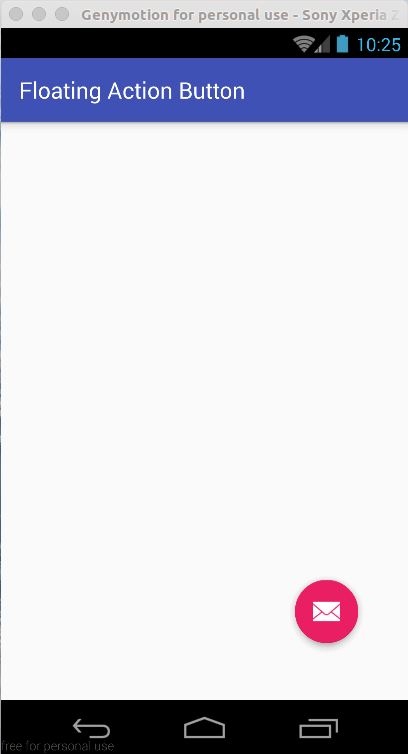
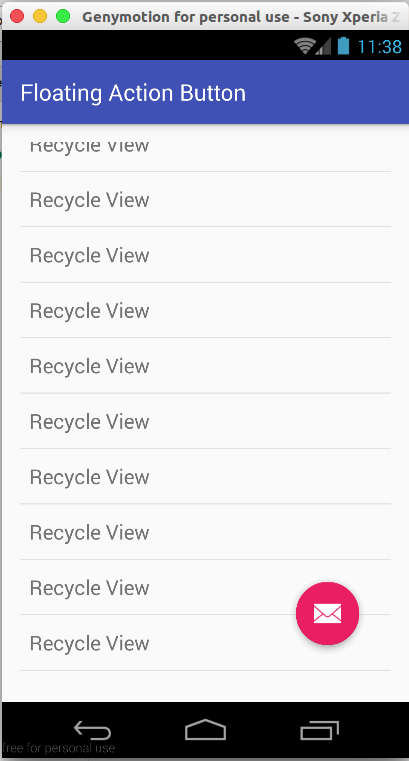
ok

diff --git a/FloatingActionButton/app/src/main/java/com/example/enclaveit/floatingactionbutton/MainActivity.java b/FloatingActionButton/app/src/main/java/com/example/enclaveit/floatingactionbutton/MainActivity.java
@@ -3,31 +3,41 @@ package com.example.enclaveit.floatingactionbutton;
 import android.support.design.widget.FloatingActionButton;
 import android.support.v7.app.AppCompatActivity;
 import android.os.Bundle;
-import android.view.View;
-import android.widget.Toast;
+import android.widget.ArrayAdapter;
+import android.widget.ListView;
+
+import java.util.ArrayList;
+import java.util.List;
 
 public class MainActivity extends AppCompatActivity {
 
     private FloatingActionButton fab;
+    private ListView listToDoTask;
+
+    private List<String> list;
 
     @Override
     protected void onCreate(Bundle savedInstanceState) {
         super.onCreate(savedInstanceState);
         setContentView(R.layout.activity_main);
-
         addControlsForNullOfPointer();
+
+        if(createValueForTesting()){
+                listToDoTask.setAdapter(new ArrayAdapter(this,android.R.layout.simple_list_item_1,list));
+        };
+    }
+
+    private boolean createValueForTesting() {
+        boolean valid = true;
+        list = new ArrayList<String>();
+        for(int index = 0;index < 100; index++){
+            list.add("Recycle View");
+        }
+        return valid;
     }
 
     private void addControlsForNullOfPointer() {
         fab = (FloatingActionButton)this.findViewById(R.id.fab);
-    }
-
-    public void showMessageOfMail(View view){
-        fab.setOnClickListener(new View.OnClickListener() {
-            @Override
-            public void onClick(View view) {
-                Toast.makeText(MainActivity.this,"Test event on click on mobile",Toast.LENGTH_LONG).show();
-            }
-        });
+        listToDoTask = (ListView)this.findViewById(R.id.listToDo);
     }
 }

diff --git a/FloatingActionButton/app/src/main/java/com/example/enclaveit/floatingactionbutton/ScrollAwareFABBehavior.java b/FloatingActionButton/app/src/main/java/com/example/enclaveit/floatingactionbutton/ScrollAwareFABBehavior.java
@@ -1,0 +1,36 @@
+package com.example.enclaveit.floatingactionbutton;
+
+import android.content.Context;
+import android.support.design.widget.CoordinatorLayout;
+import android.support.design.widget.FloatingActionButton;
+import android.support.v4.view.ViewCompat;
+import android.util.AttributeSet;
+import android.view.View;
+
+/**
+ * Created by enclaveit on 11/01/2017.
+ */
+
+public class ScrollAwareFABBehavior extends FloatingActionButton.Behavior {
+
+    public ScrollAwareFABBehavior(Context context, AttributeSet attrs) {
+        super();
+    }
+
+    public void onNestedScroll(CoordinatorLayout coordinatorLayout, FloatingActionButton fab,
+                               View target, int dxConsumed, int dyConsumed, int dxUnconsumed, int dyUnconsumed) {
+        super.onNestedScroll(coordinatorLayout, fab, target, dxConsumed, dyConsumed, dxUnconsumed,
+                dyUnconsumed);
+
+        if (dyConsumed > 0 && fab.getVisibility() == View.VISIBLE) {
+            fab.hide();
+        } else if (dyConsumed < 0 && fab.getVisibility() != View.VISIBLE) {
+            fab.show();
+        }
+    }
+
+    @Override
+    public boolean onStartNestedScroll(CoordinatorLayout coordinatorLayout, FloatingActionButton child, View directTargetChild, View target, int nestedScrollAxes) {
+        return nestedScrollAxes == ViewCompat.SCROLL_AXIS_VERTICAL;
+    }
+}

diff --git a/README.md b/README.md
@@ -1,6 +1,29 @@
 # MATERIAL DESIGN FLOATING ACTION BUTTON [![Build Status](https://travis-ci.org/nomensa/jquery.hide-show.svg)](https://travis-ci.org/nomensa/jquery.hide-show.svg?branch=master)
 
 ##Version1
+
+    - Reset position of Float Action Button. So We need to move to it to anywhere what I like.
+	<android.support.design.widget.FloatingActionButton
+		android:id="@+id/fab"
+		app:fabSize="normal"
+		app:backgroundTint="@color/backgroundTintColor"
+		android:layout_height="wrap_content"
+		android:layout_width="wrap_content"
+		android:src="@drawable/ic_mail"
+		android:layout_margin="@dimen/fab_margin"/>
+
+    - Let's start to custom position of FloatActionButton: You only need to two statements below:
+        app:layout_anchor="@id/listToDo"
+        app:layout_anchorGravity="bottom|center|end"
+
+    - DIFFICULT LEVEL 1: Create Behavior for FloatActionButton
+    + FloatActionButton - Button
+    + app:layout_behavior="" - onClick=""
+    => Create file Java and insert into it.
+    => PROBLEM WITH YOU: I CANN'T SEE ANY ANIMATION AROUND SCROLLING LISTVIEW.
+
+
+
 <p align="center">
   <img src="https://github.com/danisluis6/Mock-up-Dictionary/blob/version1/1.png">
 </p>
